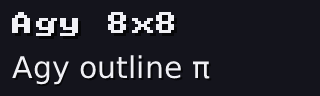
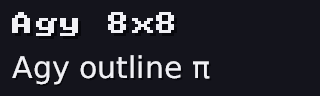
Blend in linear light

diff --git a/render.cpp b/render.cpp
@@ -1,4 +1,5 @@
 #include "render.h"
+#include "srgb.h"
 #include "font.h"
 #include "font8x8.h"
 #include "timeline.h"
@@ -255,7 +256,7 @@ void render::rasterize_line(const line& l){
 
 			px::Pixel c = l.color;
 			c.a = uint8_t(std::lround(255.0f * coverage));
-			image.Draw(x, y, c);
+			srgb::blend(image, x, y, c);
 		}
 	}
 }
@@ -320,7 +321,7 @@ void render::fill(const vec3& v1,const vec3& v2,const vec3& v3,
 			// behind it has to stay visible through it (docs/24).
 			if(opacity >= 1.0f) closest = z;
 
-			image.Draw(p.x, p.y, shaded);
+			srgb::blend(image, p.x, p.y, shaded);   // mixed as light when see-through (docs/35)
      		}
 	}
 
@@ -353,19 +354,21 @@ void render::finish(){
 
 	// Anti-aliasing (docs/25): everything was drawn samples x samples times
 	// bigger. Each final pixel is the average of its block of small ones, so
-	// a pixel that an edge cuts through gets a color in between.
+	// a pixel that an edge cuts through gets a color in between. The average
+	// is of the LIGHT, not the bytes (docs/35): half a white sample block
+	// gives half the light.
 	if(samples > 1){
-		int n = samples * samples;
+		float n = float(samples * samples);
 		for(int y = 0;y<result.Height();y++){
 			for(int x = 0;x<result.Width();x++){
-				int r = 0, g = 0, b = 0;
+				float r = 0.0f, g = 0.0f, b = 0.0f;
 				for(int sy = 0;sy<samples;sy++){
 					for(int sx = 0;sx<samples;sx++){
 						px::Pixel p = image.Get(x * samples + sx, y * samples + sy);
-						r += p.r; g += p.g; b += p.b;
+						r += srgb::to_linear(p.r); g += srgb::to_linear(p.g); b += srgb::to_linear(p.b);
 					}
 				}
-				result.Draw(x, y, px::Pixel(uint8_t((r + n / 2) / n), uint8_t((g + n / 2) / n), uint8_t((b + n / 2) / n)));
+				result.Draw(x, y, px::Pixel(srgb::to_byte(r / n), srgb::to_byte(g / n), srgb::to_byte(b / n)));
 			}
 		}
 	}
@@ -412,7 +415,7 @@ void render::finish(){
 				if(c <= 0.0f) continue;
 				px::Pixel p = l.color;
 				p.a = uint8_t(std::lround(p.a * c));
-				picture.Draw(x, y, p);
+				srgb::blend(picture, x, y, p);
 			}
 		}
 	}
@@ -456,7 +459,7 @@ void render::paint_math(const math_item& m,float dx,float dy,px::Pixel color){
 		if(c <= 0.0f) return;
 		px::Pixel p = color;
 		p.a = uint8_t(std::lround(color.a * std::min(1.0f, c)));
-		picture.Draw(x, y, p);
+		srgb::blend(picture, x, y, p);
 	};
 	for(const math_glyph& g : m.formula.glyphs){
 		const font::glyph& shape = g.face->get(g.codepoint, g.size);
@@ -549,7 +552,7 @@ void render::paint_outline_text(const text_item& t,float dx,float dy,px::Pixel c
 				if(c <= 0.0f) continue;
 				px::Pixel p = color;
 				p.a = uint8_t(std::lround(color.a * c));
-				picture.Draw(left + x, top + y, p);
+				srgb::blend(picture, left + x, top + y, p);
 			}
 		}
 		pen += f->advance(codes[i], t.size);
@@ -570,7 +573,7 @@ void render::paint_text(const text_item& t,int dx,int dy,px::Pixel color){
 				if(((bits >> col) & 1) == 0) continue;
 				for(int sy = 0;sy<scale;sy++){
 					for(int sx = 0;sx<scale;sx++){
-						picture.Draw(left + col * scale + sx, int(t.y) + dy + row * scale + sy, color);
+						srgb::blend(picture, left + col * scale + sx, int(t.y) + dy + row * scale + sy, color);
 					}
 				}
 			}

diff --git a/srgb.h b/srgb.h
@@ -1,0 +1,65 @@
+#pragma once
+#include "pixel.h"
+
+#include <algorithm>
+#include <array>
+#include <cmath>
+#include <cstdint>
+
+// ============================================================================
+//  sRGB and linear light (docs/35).
+//
+//  A pixel's bytes are NOT amounts of light. Screens follow the sRGB curve:
+//  byte 128 gives only about 22% of the light of byte 255, not 50%. So
+//  mixing two colors by averaging their bytes (half an edge, a see-through
+//  pane, an anti-aliased pixel) comes out too dark.
+//
+//  The fix: turn the bytes into light (decode), mix the light, and turn the
+//  result back into bytes (encode).
+//
+//      decode(c) = c / 12.92                          if c <= 0.04045
+//                = ((c + 0.055) / 1.055) ^ 2.4        otherwise        (c = byte / 255)
+//      encode(l) = 12.92 · l                          if l <= 0.0031308
+//                = 1.055 · l ^ (1 / 2.4) − 0.055      otherwise
+//
+//  The short straight piece near black keeps the curve from being infinitely
+//  steep at 0.
+// ============================================================================
+namespace srgb{
+	// how much light a byte gives, 0..1 (a table: there are only 256 bytes)
+	inline float to_linear(uint8_t byte){
+		static const std::array<float, 256> table = []{
+			std::array<float, 256> t{};
+			for(int b = 0;b<256;b++){
+				float c = b / 255.0f;
+				t[size_t(b)] = c <= 0.04045f ? c / 12.92f : std::pow((c + 0.055f) / 1.055f, 2.4f);
+			}
+			return t;
+		}();
+		return table[byte];
+	}
+
+	// the byte that gives this much light
+	inline uint8_t to_byte(float light){
+		float l = std::clamp(light, 0.0f, 1.0f);
+		float c = l <= 0.0031308f ? 12.92f * l : 1.055f * std::pow(l, 1.0f / 2.4f) - 0.055f;
+		return uint8_t(std::lround(c * 255.0f));
+	}
+
+	// Like px::Image::Draw (p.a = how much of p covers the pixel), but the
+	// colors are mixed as light, not as bytes.
+	inline void blend(px::Image& image,int x,int y,px::Pixel p){
+		if(x < 0 || y < 0 || x >= image.Width() || y >= image.Height()) return;
+		if(p.a == 0) return;
+		if(p.a == 255){ image.Draw(x, y, p); return; }
+		px::Pixel d = image.Get(x, y);
+		float sa = p.a / 255.0f, da = d.a / 255.0f;
+		float oa = sa + da * (1.0f - sa);
+		auto mix = [&](uint8_t s,uint8_t t){
+			return to_byte((to_linear(s) * sa + to_linear(t) * da * (1.0f - sa)) / oa);
+		};
+		// written straight in (Draw would mix it a second time if oa < 1)
+		image.Data()[size_t(y) * size_t(image.Width()) + size_t(x)] =
+			px::Pixel(mix(p.r, d.r), mix(p.g, d.g), mix(p.b, d.b), uint8_t(std::lround(oa * 255.0f)));
+	}
+}

diff --git a/engine_test.cpp b/engine_test.cpp
@@ -12,6 +12,7 @@
 #include "math_layout.h"
 #include "render.h"
 #include "scene_parser.h"
+#include "srgb.h"
 #include "test_scenes.h"
 #include "timeline.h"
 
@@ -356,8 +357,10 @@ static void test_fades(){
 	px::Pixel s = solid.picture().Get(80, 62);   // inside the triangle
 	px::Pixel h = half.picture().Get(80, 62);
 	px::Pixel bg = solid.picture().Get(2, 2);     // the background
-	int expected = int(std::lround(0.5f * s.r + 0.5f * bg.r));
-	check(std::abs(h.r - expected) <= 1, "half see-through = halfway between it and the background (" + std::to_string(h.r)
+	// halfway in LIGHT, not in bytes (docs/35): 101, where the bytes' halfway is 79
+	float alpha = 128.0f / 255.0f;
+	int expected = srgb::to_byte(alpha * srgb::to_linear(s.r) + (1.0f - alpha) * srgb::to_linear(bg.r));
+	check(std::abs(h.r - expected) <= 1, "half see-through = halfway in light between it and the background (" + std::to_string(h.r)
 	      + ", expected " + std::to_string(expected) + ")");
 
 	// see-through must not hide what's behind it, even if drawn first
@@ -554,6 +557,24 @@ static void test_hd(){
 	      "label gaps scale too: 3 px becomes 6.75 px at 1080");
 }
 
+// Mixing colors as light, not as bytes (docs/35).
+static void test_linear_light(){
+	std::printf("\nlinear light:\n");
+	bool round_trip = true;
+	for(int b = 0;b<256;b++) if(srgb::to_byte(srgb::to_linear(uint8_t(b))) != b) round_trip = false;
+	check(round_trip, "every byte turned into light and back gives the same byte (all 256)");
+	check(srgb::to_linear(0) == 0.0f && srgb::to_linear(255) == 1.0f, "the ends are exact: 0 is no light, 255 is all of it");
+	check(std::fabs(srgb::to_linear(128) - 0.2158f) < 1e-4f, "byte 128 is only 21.6% of the light, not half");
+
+	px::Image black(1, 1, px::Pixel(0, 0, 0));
+	srgb::blend(black, 0, 0, px::Pixel(255, 255, 255, 128));
+	int light = black.Get(0, 0).r;
+	px::Image bytes(1, 1, px::Pixel(0, 0, 0));
+	bytes.Draw(0, 0, px::Pixel(255, 255, 255, 128));
+	check(light == 188 && bytes.Get(0, 0).r == 128,
+	      "white covering half a black pixel: 188 mixed as light, 128 mixed as bytes (" + std::to_string(light) + ")");
+}
+
 int main(){
 	test_clipping();
 	test_fly_camera();
@@ -568,6 +589,7 @@ int main(){
 	test_scene_language();
 	test_live_reload();
 	test_hd();
+	test_linear_light();
 	std::printf("\n%s: %d check%s failed\n", failures == 0 ? "ALL PASSED" : "FAILED", failures, failures == 1 ? "" : "s");
 	return failures == 0 ? 0 : 1;
 }

diff --git a/docs/35-linear-light.md b/docs/35-linear-light.md
@@ -1,0 +1,126 @@
+# 35 · Mixing colors as light
+
+Anti-aliasing (25), smooth text (29), lines (26) and see-through objects
+(24) all **mix** two colors: a pixel half covered by a white letter is
+"half white, half background". Until now the mixing was done on the
+**bytes** of the colors. That's wrong, and it's why edges and text looked a
+little thin and jagged.
+
+![](images/linear-light.png)
+
+The same 1080p frame, zoomed 4×. **Top:** bytes averaged. **Bottom:** light
+averaged. The letters are fuller and smoother, and the edges of the arrow
+and the shapes are less stair-stepped.
+
+Code: `srgb.h` (`to_linear`, `to_byte`, `blend`), `render.cpp` (the
+anti-aliasing average, and every blend).
+
+---
+
+## 1. A byte isn't an amount of light
+
+A screen doesn't turn byte 128 into half the light of byte 255. It follows
+the **sRGB curve**, which spends more of the 256 bytes on dark shades
+(where eyes are sensitive) and fewer on bright ones:
+
+```
+light = ((c + 0.055) / 1.055) ^ 2.4          c = byte / 255
+        (or c / 12.92 for the darkest few, so the curve isn't infinitely steep at 0)
+```
+
+```
+byte 128:  c = 0.502,   ((0.502 + 0.055) / 1.055)^2.4 = 0.2159
+```
+
+**Byte 128 is only 21.6% of the light**, not 50%.
+
+## 2. What goes wrong
+
+A white letter (255) covers exactly half of a black pixel (0). Physically,
+the pixel should send out half as much light as a white one.
+
+| mixing | result | light |
+|---|---|---|
+| bytes: (255 + 0) / 2 | **128** | 21.6%: too dark |
+| light: (1 + 0) / 2 = 0.5, back to a byte | **188** | 50% ✓ |
+
+Back to a byte is the curve the other way round:
+
+```
+c = 1.055 · light^(1/2.4) − 0.055 = 1.055 · 0.5^0.4167 − 0.055 = 0.7354   →   0.7354 · 255 = 187.5 → 188
+```
+
+The engine: `white covering half a black pixel: 188 mixed as light, 128
+mixed as bytes`. ✓
+
+So with byte mixing, every half-covered edge pixel was much darker than
+it should be. Edges of bright things on a dark background (that's all of
+our text, and Manim's whole look) came out **thin**, and the stair-steps
+showed more. Mixing light gives the edge pixels the brightness they really
+have, which is exactly what makes anti-aliasing look smooth.
+
+## 3. The recipe
+
+Every mix now goes: bytes → light, mix, light → bytes.
+
+```
+mix = to_byte( to_linear(new) · a + to_linear(old) · (1 − a) )
+```
+
+- **`to_linear`** is a table of 256 numbers, worked out once. There are
+  only 256 possible bytes.
+- **`to_byte`** uses the formula. Turning a byte into light and back gives
+  the same byte for all 256 (a test checks every one).
+- **`srgb::blend`** is `px::Image::Draw` (24), but mixing light. `pixel.h`
+  itself is unchanged.
+
+**Where it's used:**
+- the anti-aliasing average (25): the light of the samples is averaged, not
+  their bytes
+- the coverage of lines and arrows (26)
+- text and formulas (29, 30), including their shadows
+- leader lines (28)
+- see-through objects (24)
+
+## 4. Page 24's example, again
+
+Page 24's test: a grey triangle (137 when solid) at half opacity over the
+background (20). Mixed as bytes it was 79. As light:
+
+```
+to_linear(137) = 0.2502,   to_linear(20) = 0.0070,   a = 128/255 = 0.502
+0.502 · 0.2502 + 0.498 · 0.0070 = 0.1291   →   to_byte = 100.6 → 101
+```
+
+The engine gives 101. ✓ It's brighter than 79 because half the light of
+137 is a lot more than "the byte halfway to 20".
+
+## 5. What it costs
+
+`to_linear` is a table lookup. `to_byte` is a `pow`, but only for pixels
+that are actually mixed: edges, text, and see-through things. A whole 1080p
+frame of the showcase, anti-aliased, still takes well under a tenth of a
+second.
+
+## 6. Tests
+
+```
+linear light:
+  PASS  every byte turned into light and back gives the same byte (all 256)
+  PASS  the ends are exact: 0 is no light, 255 is all of it
+  PASS  byte 128 is only 21.6% of the light, not half
+  PASS  white covering half a black pixel: 188 mixed as light, 128 mixed as bytes (188)
+```
+
+and page 24's test now expects the mix in light (101).
+
+---
+
+## Try it on paper
+
+A 2×2 block of anti-aliasing samples (25): one is white (255), three are
+black (0). What's the final pixel, mixed as bytes and as light?
+
+Answer: bytes: 255 / 4 = 63.75 → 64. Light: 1/4 = 0.25 →
+1.055 · 0.25^0.4167 − 0.055 = 0.537 → 137. The light answer is more than
+twice as bright, and it's the right one: a quarter of the light.

diff --git a/docs/24-fades.md b/docs/24-fades.md
@@ -52,8 +52,13 @@ red:  0.5 · 137 + 0.5 · 20 = 78.5  → 79
 blue: 0.5 · 137 + 0.5 · 28 = 82.5  → 83
 ```
 
-The engine gives (79, 79, 83). ✓ (The opacity is stored as a byte, so 0.5
+The engine gave (79, 79, 83). ✓ (The opacity is stored as a byte, so 0.5
 becomes 128/255 = 0.502, but that doesn't change the rounded result.)
+
+> **Since 35** the mixing is done in **light**, not in bytes, because bytes
+> aren't amounts of light. The same example now gives (101, 101, 101): see
+> 35 for the numbers. The idea above (new · a + old · (1 − a)) is the same;
+> only what's being mixed changed.
 
 The blending itself was already in `pixel.h`: `Image::Draw` mixes any color
 whose alpha is below 255 into what's there. The renderer just has to give
@@ -117,7 +122,7 @@ fading away again and the planet is half gone.
 
 ```
 fades:
-  PASS  half see-through = halfway between it and the background (79, expected 79)
+  PASS  half see-through = halfway in light between it and the background (101, expected 101)
   PASS  something solid behind a see-through one still shows through
 ```
 

diff --git a/docs/README.md b/docs/README.md
@@ -65,6 +65,7 @@ All the math is built on **vectors and matrices** (01).
 | 32 | [Flying past movers](32-flyby-movers.md) | How does something fly past a thing that is itself moving? | `motion.cpp`, `solver.cpp` |
 | 33 | [Framing by sampling](33-framing-by-sampling.md) | How does the camera fit where moving things really are? | `motion.cpp` |
 | 34 | [Any size, and HD](34-hd.md) | How does a scene become a 1080p picture without changing its layout? | `world.cpp`, `render.cpp` |
+| 35 | [Mixing as light](35-linear-light.md) | Why does mixing bytes make edges too dark, and how is it fixed? | `srgb.h`, `render.cpp` |
 | | [Ranges and settings](ranges.md) | What values make sense? | `camera.h`, `object.h` |
 | | [C++ notes](cpp-notes.md) | What does this syntax mean? | everywhere |
 | | [Design](design.md) | Why is the code split up like this? | everywhere |

diff --git a/docs/25-antialiasing-and-video.md b/docs/25-antialiasing-and-video.md
@@ -51,6 +51,13 @@ A color halfway between the cube and the background, exactly as much as the
 edge covers it. Without supersampling that pixel would be fully orange or
 fully dark.
 
+> **Since 35** the samples' **light** is averaged, not their bytes, because a
+> byte isn't an amount of light. The same pixel is then
+> red: (0.6445 + 0.6445 + 0.0070 + 0.0070) / 4 = 0.3257 → **155**, green → **88**,
+> blue → **44**. Brighter than (115, 70, 42), and it's the right answer:
+> half the light of the cube. The answers below are the byte version; in
+> light they're 225 and 178.
+
 | without | with `--aa` |
 |---|---|
 | ![](images/aa-off.png) | ![](images/aa-on.png) |
